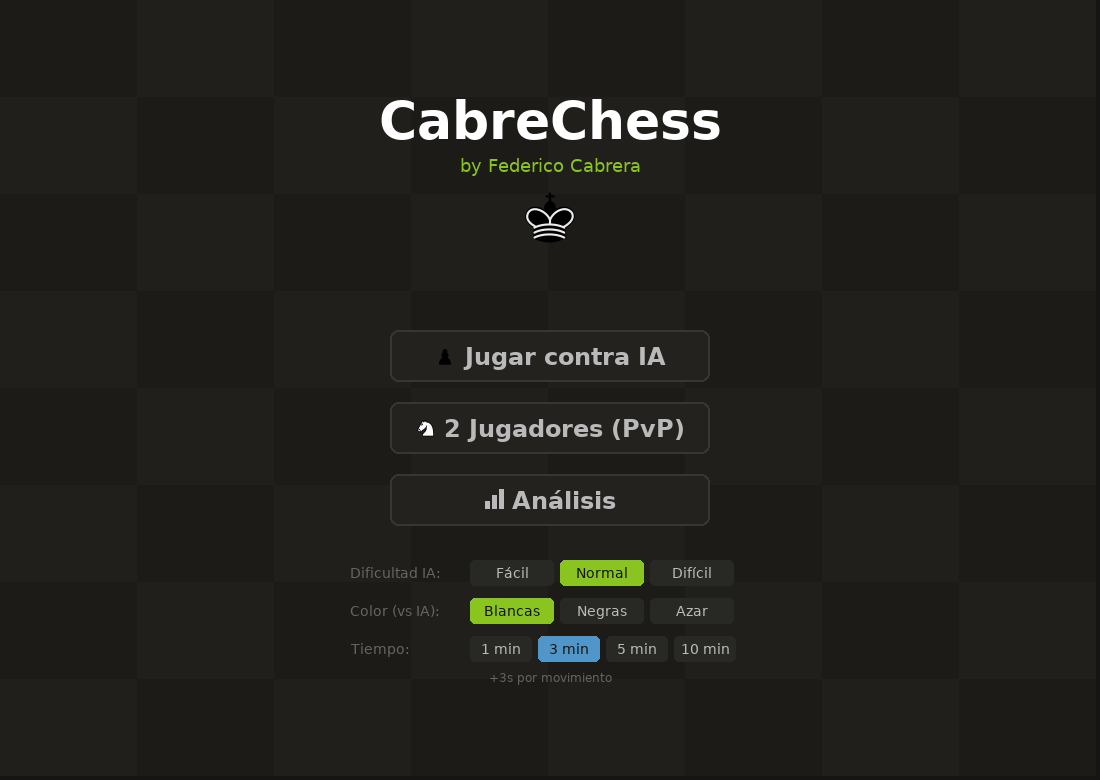
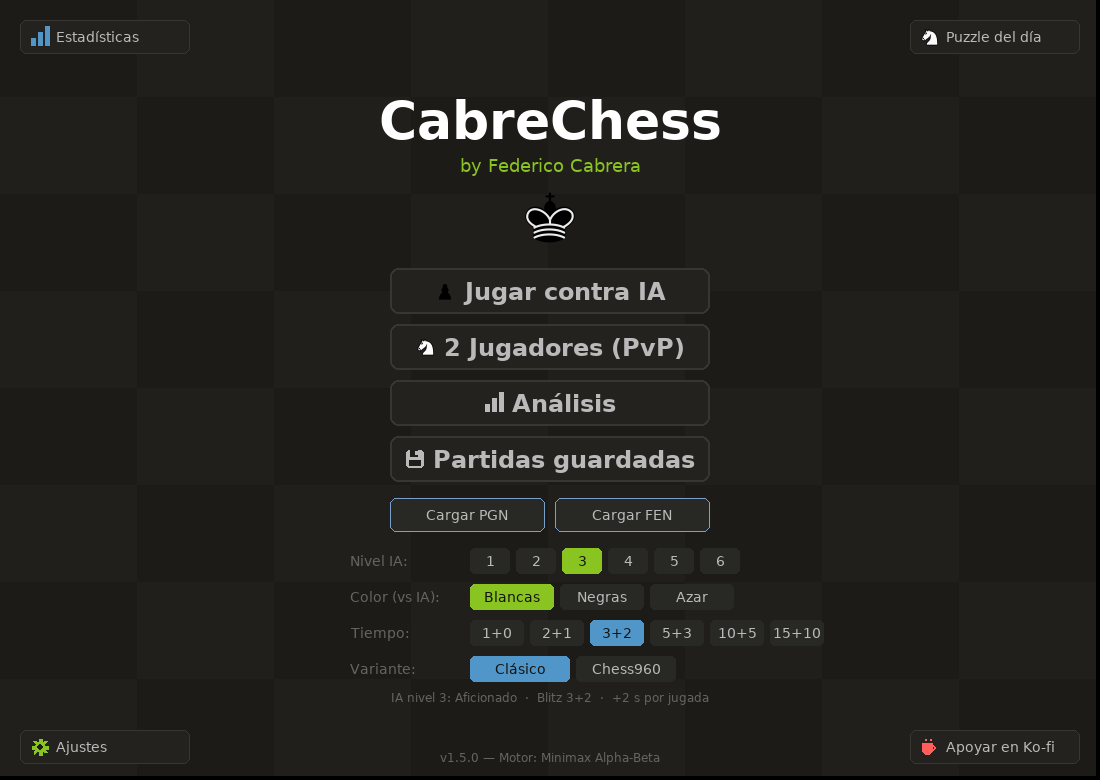
docs: Chess960 en README, CHANGELOG y capturas

diff --git a/README.md b/README.md
@@ -24,6 +24,10 @@ Por Federico Cabrera.
   <img src="docs/screenshots/vs_ia_negras.png" alt="Jugando con negras contra la IA" width="48%">
   <img src="docs/screenshots/tiempo_agotado.png" alt="Tiempo agotado: tablas por material insuficiente" width="48%">
 </p>
+<p align="center">
+  <img src="docs/screenshots/chess960.png" alt="Partida Chess960 (posición 237): el rey negro marca el enroque largo" width="48%">
+  <img src="docs/screenshots/estadisticas.png" alt="Estadísticas locales contra la IA" width="48%">
+</p>
 
 ## Funcionalidades
 
@@ -54,6 +58,15 @@ Por Federico Cabrera.
   **Elo estimado** (fórmula Elo estándar, K = 32, empezando en 1200). Se guardan
   solas en `stats.json`, en la misma carpeta que `settings.json`, y se pueden
   reiniciar (pide confirmación).
+- **Chess960 (Fischer Random)**: en la fila **Variante** del menú elegís *Clásico* o
+  *Chess960* para *Jugar contra IA* y *2 Jugadores*. Cada partida nueva arranca en una
+  de las 960 posiciones al azar y el número de posición (0 a 959; la 518 es la clásica)
+  se ve arriba de la lista de jugadas. Para **enrocar** llevá el rey sobre su torre
+  (clic o arrastre) o a su casilla final (g1/c1) si esa casilla no es una jugada normal
+  del rey; se animan las dos piezas. El PGN sale con `Variant "Chess960"`, `FEN` y
+  `SetUp`, y se vuelve a cargar con *Cargar PGN* (también un FEN 960 con *Cargar FEN*).
+  La IA propia y Stockfish (con `UCI_Chess960`) juegan 960; las partidas cuentan en las
+  estadísticas como las demás y se ven aparte en la fila "Chess960".
 - Piezas **cburnett** (las de Lichess) y ejecutables para Windows, Linux y macOS con checksum SHA-256.
 
 ## Partidas guardadas y análisis
@@ -106,6 +119,7 @@ Por Federico Cabrera.
 | Recorrer la lista de jugadas | Rueda del mouse sobre la lista |
 | Puzzle del día | Botón arriba a la derecha del menú. `H` pista, `S` ver solución, `N` otro puzzle, `Esc` volver |
 | Estadísticas | Botón arriba a la izquierda del menú. "Reiniciar estadísticas" pide confirmación; `Esc` vuelve |
+| Chess960 | Fila *Variante* del menú. Enroque: rey sobre su torre, o a g1/c1 (g8/c8) si no es una jugada normal del rey. "Nueva partida" sortea otra posición |
 | Copiar FEN / PGN al portapapeles | `C` copia el FEN de la posición que se ve; `Shift+C` copia el PGN de la partida |
 
 ## Requisitos y cómo ejecutarlo
@@ -230,6 +244,7 @@ cabrechess/
 ├── constants.py   # tamaños de ventana, colores, glifos
 ├── engine.py      # motor propio (alfa-beta iterativo + quietud + MVV-LVA)
 ├── clock.py       # formato del reloj y resultado por bandera
+├── chess960.py    # Chess960: posición al azar (0-959), enroque 960
 ├── pgn.py         # exportación e importación PGN/FEN
 ├── openings.py    # nombres de aperturas (ECO), búsqueda por posición
 ├── puzzles.py     # puzzle del día: carga, validación de jugadas y racha
@@ -265,7 +280,7 @@ inspired by Lichess.
 background thread) as white, black or random; local 2-player mode; analysis mode with
 evaluation bar and graph; Lichess-style time controls (1+0 to 15+10) and proper
 flag-vs-insufficient-material handling; full undo (clocks, captures, eval); premoves,
-drag and drop, promotion picker; PGN export; local stats vs the AI (wins/draws/losses per level and an estimated Elo, *Estadísticas* in the menu); Lichess cburnett pieces; Windows, Linux and macOS builds
+drag and drop, promotion picker; PGN export; Chess960 / Fischer Random (random start position 0-959 shown in the move list, 960 castling by moving the king onto its rook, PGN with `Variant "Chess960"` + `FEN`, works vs the AI, Stockfish and 2 players); local stats vs the AI (wins/draws/losses per level and an estimated Elo, *Estadísticas* in the menu); Lichess cburnett pieces; Windows, Linux and macOS builds
 produced reproducibly by GitHub Actions with a SHA-256 checksum.
 
 **Saved games & analysis:** every finished game is stored automatically in a local SQLite database (`%APPDATA%\\CabreChess\\partidas.db` on Windows, `~/.cabrechess/` elsewhere); browse, open in analysis, export or delete them from *Partidas guardadas*. Analysis shows the best move (arrow + SAN) and evaluation using the built-in engine in-process; Stockfish can optionally be configured via `settings.json` (`stockfish_path`) or `CABRECHESS_STOCKFISH`; once configured it can also be picked as the opponent in the menu (*Rival IA*), with levels 1-6 mapped to its Skill Level.

diff --git a/CHANGELOG.md b/CHANGELOG.md
@@ -6,6 +6,39 @@ y el proyecto usa [versionado semántico](https://semver.org/lang/es/).
 
 ## [Unreleased]
 
+### Chess960 / Fischer Random (B11, parte 2)
+- Nueva fila **Variante** en el menú: *Clásico* o *Chess960*. Vale para
+  *Jugar contra IA* y *2 Jugadores* y se recuerda (`variant` en
+  `settings.json`). El modo *Análisis* desde el menú sigue arrancando en la
+  posición clásica.
+- Cada partida nueva de Chess960 (también con el botón de nueva partida)
+  arranca en una de las **960 posiciones al azar**, generadas con
+  python-chess. El **número de posición** (0 a 959; la 518 es la clásica) se
+  ve arriba de la lista de jugadas, en lugar del nombre de la apertura.
+- **Enroque 960**: se lleva el rey **sobre su torre** (clic o arrastre), o a
+  su **casilla final** (g1/c1, g8/c8) cuando esa casilla no es además una
+  jugada normal del rey. Se marcan como destino la casilla final del rey y la
+  torre, y la animación sigue moviendo las dos piezas. Funciona con premoves y
+  deshacer.
+- **PGN**: las partidas 960 se exportan con `Variant "Chess960"`, `FEN` y
+  `SetUp "1"` (también la 518), sin `ECO`/`Opening`. *Cargar PGN* y las
+  *Partidas guardadas* las abren con las reglas 960, y *Cargar FEN* detecta un
+  FEN de Chess960 (enroque `KQkq` con torres fuera de lugar o tipo `HAha`).
+- **IA**: el motor propio juega 960 sin cambios (usa las jugadas legales de
+  python-chess). Con **Stockfish**, python-chess activa `UCI_Chess960` solo;
+  si el motor no lo soporta, juega el motor propio y se avisa.
+- **Estadísticas**: las partidas 960 contra la IA cuentan igual que las
+  clásicas en los totales, la tabla por nivel y el Elo estimado (el rival es
+  el mismo), y se guardan con `"variant": "chess960"` en `stats.json`. La
+  tabla suma una fila **Chess960 (incluidas)** con su detalle y las últimas
+  partidas marcan "960". Los `stats.json` anteriores siguen valiendo.
+- El menú se compactó un poco para que entre la fila nueva (y la de *Rival
+  IA* cuando hay Stockfish); captura nueva en `docs/screenshots/chess960.png`
+  y `menu.png` actualizada.
+- Tests nuevos en `tests/test_chess960.py` (las 960 posiciones, enroque 960 de
+  los dos lados, prioridad de la jugada normal, PGN ida y vuelta, FEN 960,
+  menú, IA propia, Stockfish con `UCI_Chess960`, estadísticas y dibujo).
+
 ### Estadísticas locales (B11, parte 1)
 - Nuevo botón **Estadísticas** arriba a la izquierda del menú. Muestra las
   partidas jugadas contra la IA, victorias, empates, derrotas y puntaje, una
